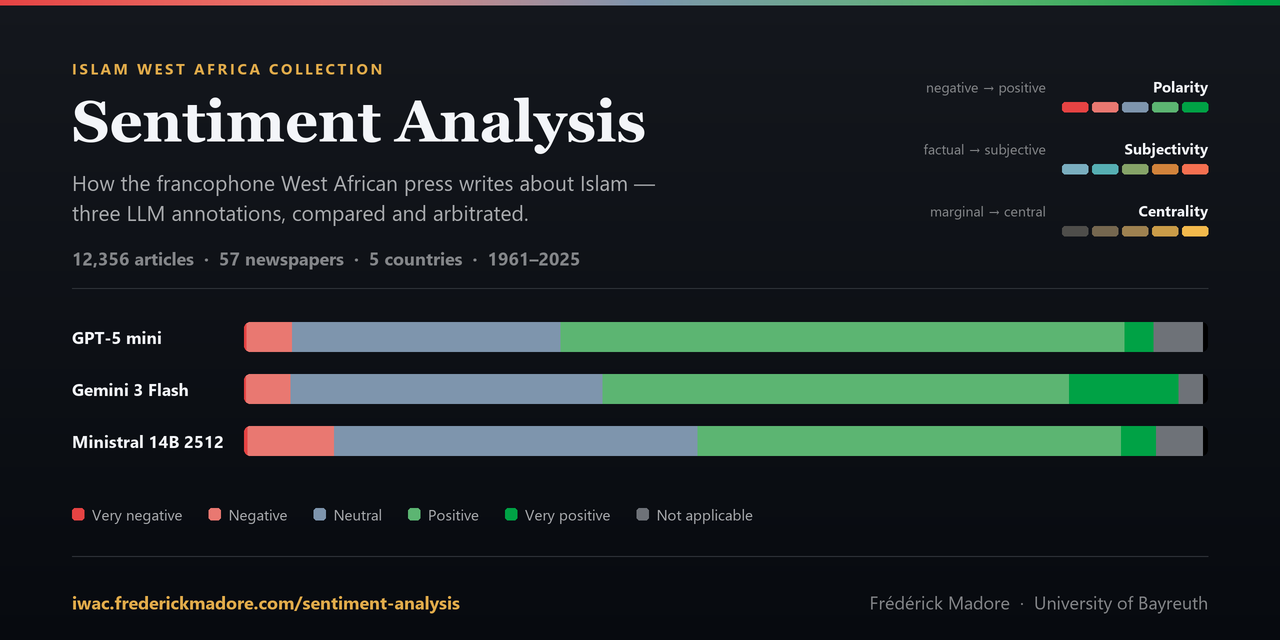
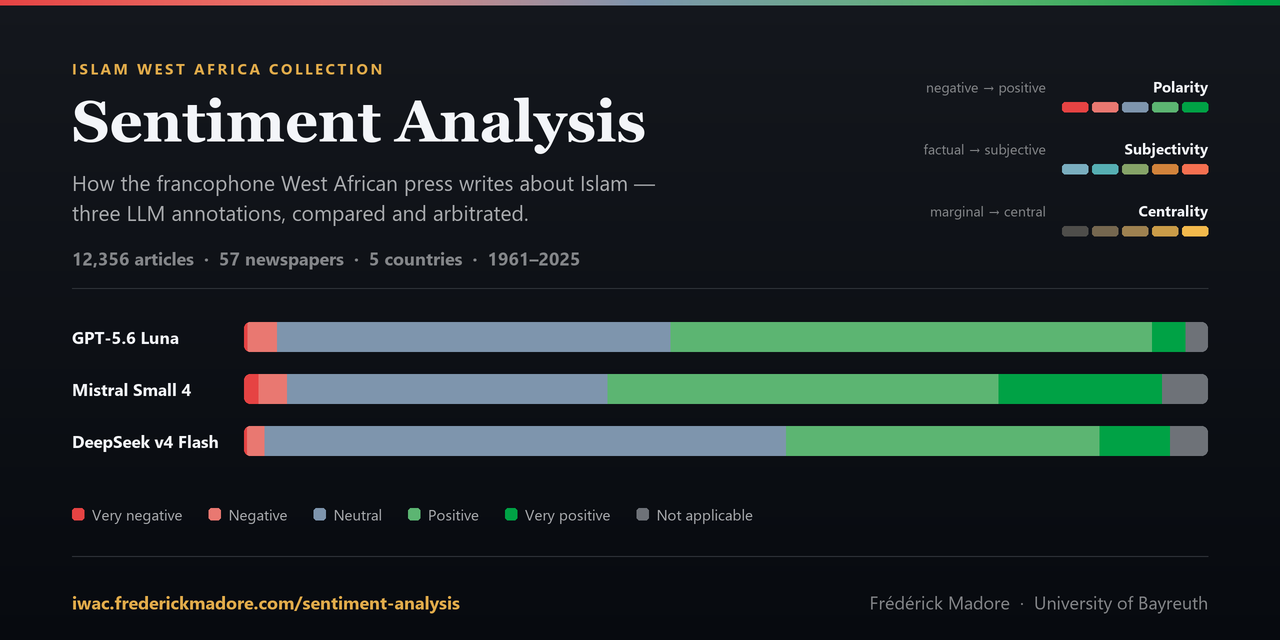
fix(build): derive the social card's model list from the contract
The card's MODELS list was the one hardcoded thing in a script whose
docstring claims everything on it is derived. It went stale when
generation 2 shipped, so every link preview kept advertising the
archived models.

Read the list from the generation's contract instead, with
`--generation` (defaulting to the showcased one) to re-render either
panel. Keyed on `analysisModel`, not `displayName`: the card names the
model that produced the annotations, and in v1 `displayName` is the
vendor slot ("ChatGPT") while only `analysisModel` carries the model
("GPT-5 mini").

Also fix the stack denominator, which summed every row including the 51
generation-2 articles that carry no annotation by design. Each bar
stopped a fraction short of its right edge with nothing to explain the
gap.

The GitHub repository social preview is a manual upload; this only
refreshes the file the site serves as its Open Graph image.

diff --git a/scripts/social-preview.py b/scripts/social-preview.py
@@ -7,10 +7,16 @@ Social preview, which has no REST API - upload it by hand) and as the site's
 Open Graph / Twitter image, so it is written into the SvelteKit `static/`
 directory and served from there.
 
-Everything on the card is derived, not hardcoded: the article counts and the
-polarity stacks are read out of `static/data/`, and the palette comes from the
-same OKLCH values as `app.css` via `oklch-to-hex.py`. Re-run after a data
-refresh so the card never claims figures the dashboard no longer shows.
+Everything on the card is derived, not hardcoded: the model list comes from the
+generation's shared contract, the article counts and polarity stacks are read
+out of `static/data/`, and the palette comes from the same OKLCH values as
+`app.css` via `oklch-to-hex.py`. Re-run after a data refresh so the card never
+claims figures the dashboard no longer shows.
+
+`--generation` defaults to the showcased generation, unlike the pipeline
+scripts, where an unflagged run would rewrite frozen data. Nothing here is at
+risk: the card is a presentation asset rendered from data it only reads. Pass
+`--generation v1` to re-render the archived panel's card.
 
 Rendered at 2x and downsampled, because Pillow does not antialias shape edges.
 
@@ -20,6 +26,7 @@ Usage (needs Pillow, which is not a pipeline dependency):
 
 from __future__ import annotations
 
+import argparse
 import importlib.util
 import json
 from collections import Counter
@@ -29,7 +36,12 @@ from PIL import Image, ImageDraw, ImageFont
 
 ROOT = Path(__file__).resolve().parent.parent
 DATA_DIR = ROOT / "ma-visualisation-sentiments" / "static" / "data"
+CONTRACT_DIR = ROOT / "ma-visualisation-sentiments" / "src" / "lib" / "data"
 OUTPUT = ROOT / "ma-visualisation-sentiments" / "static" / "social-preview.png"
+
+# The generation the dashboard shows by default, and therefore the one the
+# social card should advertise.
+SHOWCASED_GENERATION = "v2"
 
 WIDTH, HEIGHT = 1280, 640
 SCALE = 2  # render at 2x, downsample with LANCZOS
@@ -89,11 +101,34 @@ POLARITY = [
     ("Non applicable", "Not applicable", (0.55, 0.01, 260)),
 ]
 
-MODELS = [
-    ("chatgpt", "GPT-5 mini"),
-    ("gemini", "Gemini 3 Flash"),
-    ("mistral", "Ministral 14B 2512"),
-]
+# Card labels are trimmed from the contract's `analysisModel`, dropping release
+# dates and qualifiers that no reader needs at 17px — 172px of gutter is all a
+# stacked bar leaves. Anything not listed is used verbatim, so a new model
+# renders correctly before anyone thinks about width.
+CARD_LABELS = {
+    "Gemini 3 Flash preview": "Gemini 3 Flash",
+    "Mistral Small 4 2603": "Mistral Small 4",
+    "DeepSeek v4 Flash 0731": "DeepSeek v4 Flash",
+}
+
+
+def load_models(generation: str) -> list[tuple[str, str]]:
+    """(id, card label) for one generation, in contract order.
+
+    Read from the contract rather than hardcoded: this list went stale once
+    already, when generation 2 shipped and the card kept advertising the
+    archived models to every link preview.
+
+    Keyed on `analysisModel`, not `displayName`. The card names the model that
+    actually produced the annotations, and in v1 `displayName` is the vendor
+    slot ("ChatGPT") while only `analysisModel` carries the model ("GPT-5 mini").
+    """
+    contract = json.loads((CONTRACT_DIR / f"sentiment-{generation}.json").read_text("utf-8"))
+    return [
+        (model_id, CARD_LABELS.get(spec["analysisModel"], spec["analysisModel"]))
+        for model_id, spec in contract["models"].items()
+    ]
+
 
 # The three annotated dimensions, each with its scale's five steps - the same
 # ramps the dashboard uses, so the card previews the legend a visitor will meet.
@@ -144,11 +179,11 @@ def font(candidates: list[str], size: int) -> ImageFont.FreeTypeFont:
 
 
 # --- data ------------------------------------------------------------------
-def load_stats() -> dict:
+def load_stats(models: list[tuple[str, str]]) -> dict:
     articles = json.loads((DATA_DIR / "iwac_articles_base.json").read_text("utf-8"))
     years = sorted(str(a["dcterms:date"])[:4] for a in articles if a.get("dcterms:date"))
     stacks = {}
-    for model_id, _ in MODELS:
+    for model_id, _ in models:
         payload = json.loads((DATA_DIR / f"iwac_sentiment_{model_id}.json").read_text("utf-8"))
         stacks[model_id] = Counter(
             entry.get("polarite") for entry in payload["sentiments"].values()
@@ -183,7 +218,11 @@ def stacked_bar(image, xy, size, counts, radius=6):
     """Paint one polarity stack, rounded at both ends via an alpha mask."""
     x, y = px(xy[0]), px(xy[1])
     w, h = px(size[0]), px(size[1])
-    total = sum(counts.values()) or 1
+    # Denominator is the *annotated* rows, not every row in the file. Generation
+    # 2 carries 51 all-null articles by design (the prompt is French; those are
+    # neither French nor English), and counting them would leave each bar
+    # visibly short of its right edge with nothing to explain the gap.
+    total = sum(counts.get(key, 0) for key, _, _ in POLARITY) or 1
 
     layer = Image.new("RGBA", (w, h), (0, 0, 0, 0))
     layer_draw = ImageDraw.Draw(layer)
@@ -200,8 +239,8 @@ def stacked_bar(image, xy, size, counts, radius=6):
     image.paste(layer, (x, y), mask)
 
 
-def render() -> Image.Image:
-    stats = load_stats()
+def render(models: list[tuple[str, str]]) -> Image.Image:
+    stats = load_stats(models)
     image = Image.new("RGB", (WIDTH * SCALE, HEIGHT * SCALE), BG_TOP)
     draw = ImageDraw.Draw(image)
 
@@ -272,7 +311,7 @@ def render() -> Image.Image:
     # One stacked polarity bar per model.
     label_font = font(SANS_BOLD, 17)
     bar_x, bar_w, bar_h = m + 172, WIDTH - m - (m + 172), 30
-    for i, (model_id, label) in enumerate(MODELS):
+    for i, (model_id, label) in enumerate(models):
         y = 322 + i * 52
         text(draw, (m, y + bar_h / 2), label, label_font, TEXT_PRIMARY, anchor="lm")
         stacked_bar(image, (bar_x, y), (bar_w, bar_h), stats["stacks"][model_id])
@@ -301,6 +340,17 @@ def render() -> Image.Image:
 
 
 if __name__ == "__main__":
+    parser = argparse.ArgumentParser(description=__doc__)
+    parser.add_argument(
+        "--generation",
+        choices=["v1", "v2"],
+        default=SHOWCASED_GENERATION,
+        help=f"Analysis generation to advertise (default: {SHOWCASED_GENERATION}).",
+    )
+    args = parser.parse_args()
+
+    models = load_models(args.generation)
     OUTPUT.parent.mkdir(parents=True, exist_ok=True)
-    render().save(OUTPUT, "PNG", optimize=True)
+    render(models).save(OUTPUT, "PNG", optimize=True)
     print(f"wrote {OUTPUT} ({OUTPUT.stat().st_size / 1024:.0f} kB)")
+    print(f"generation {args.generation}: {', '.join(label for _, label in models)}")
